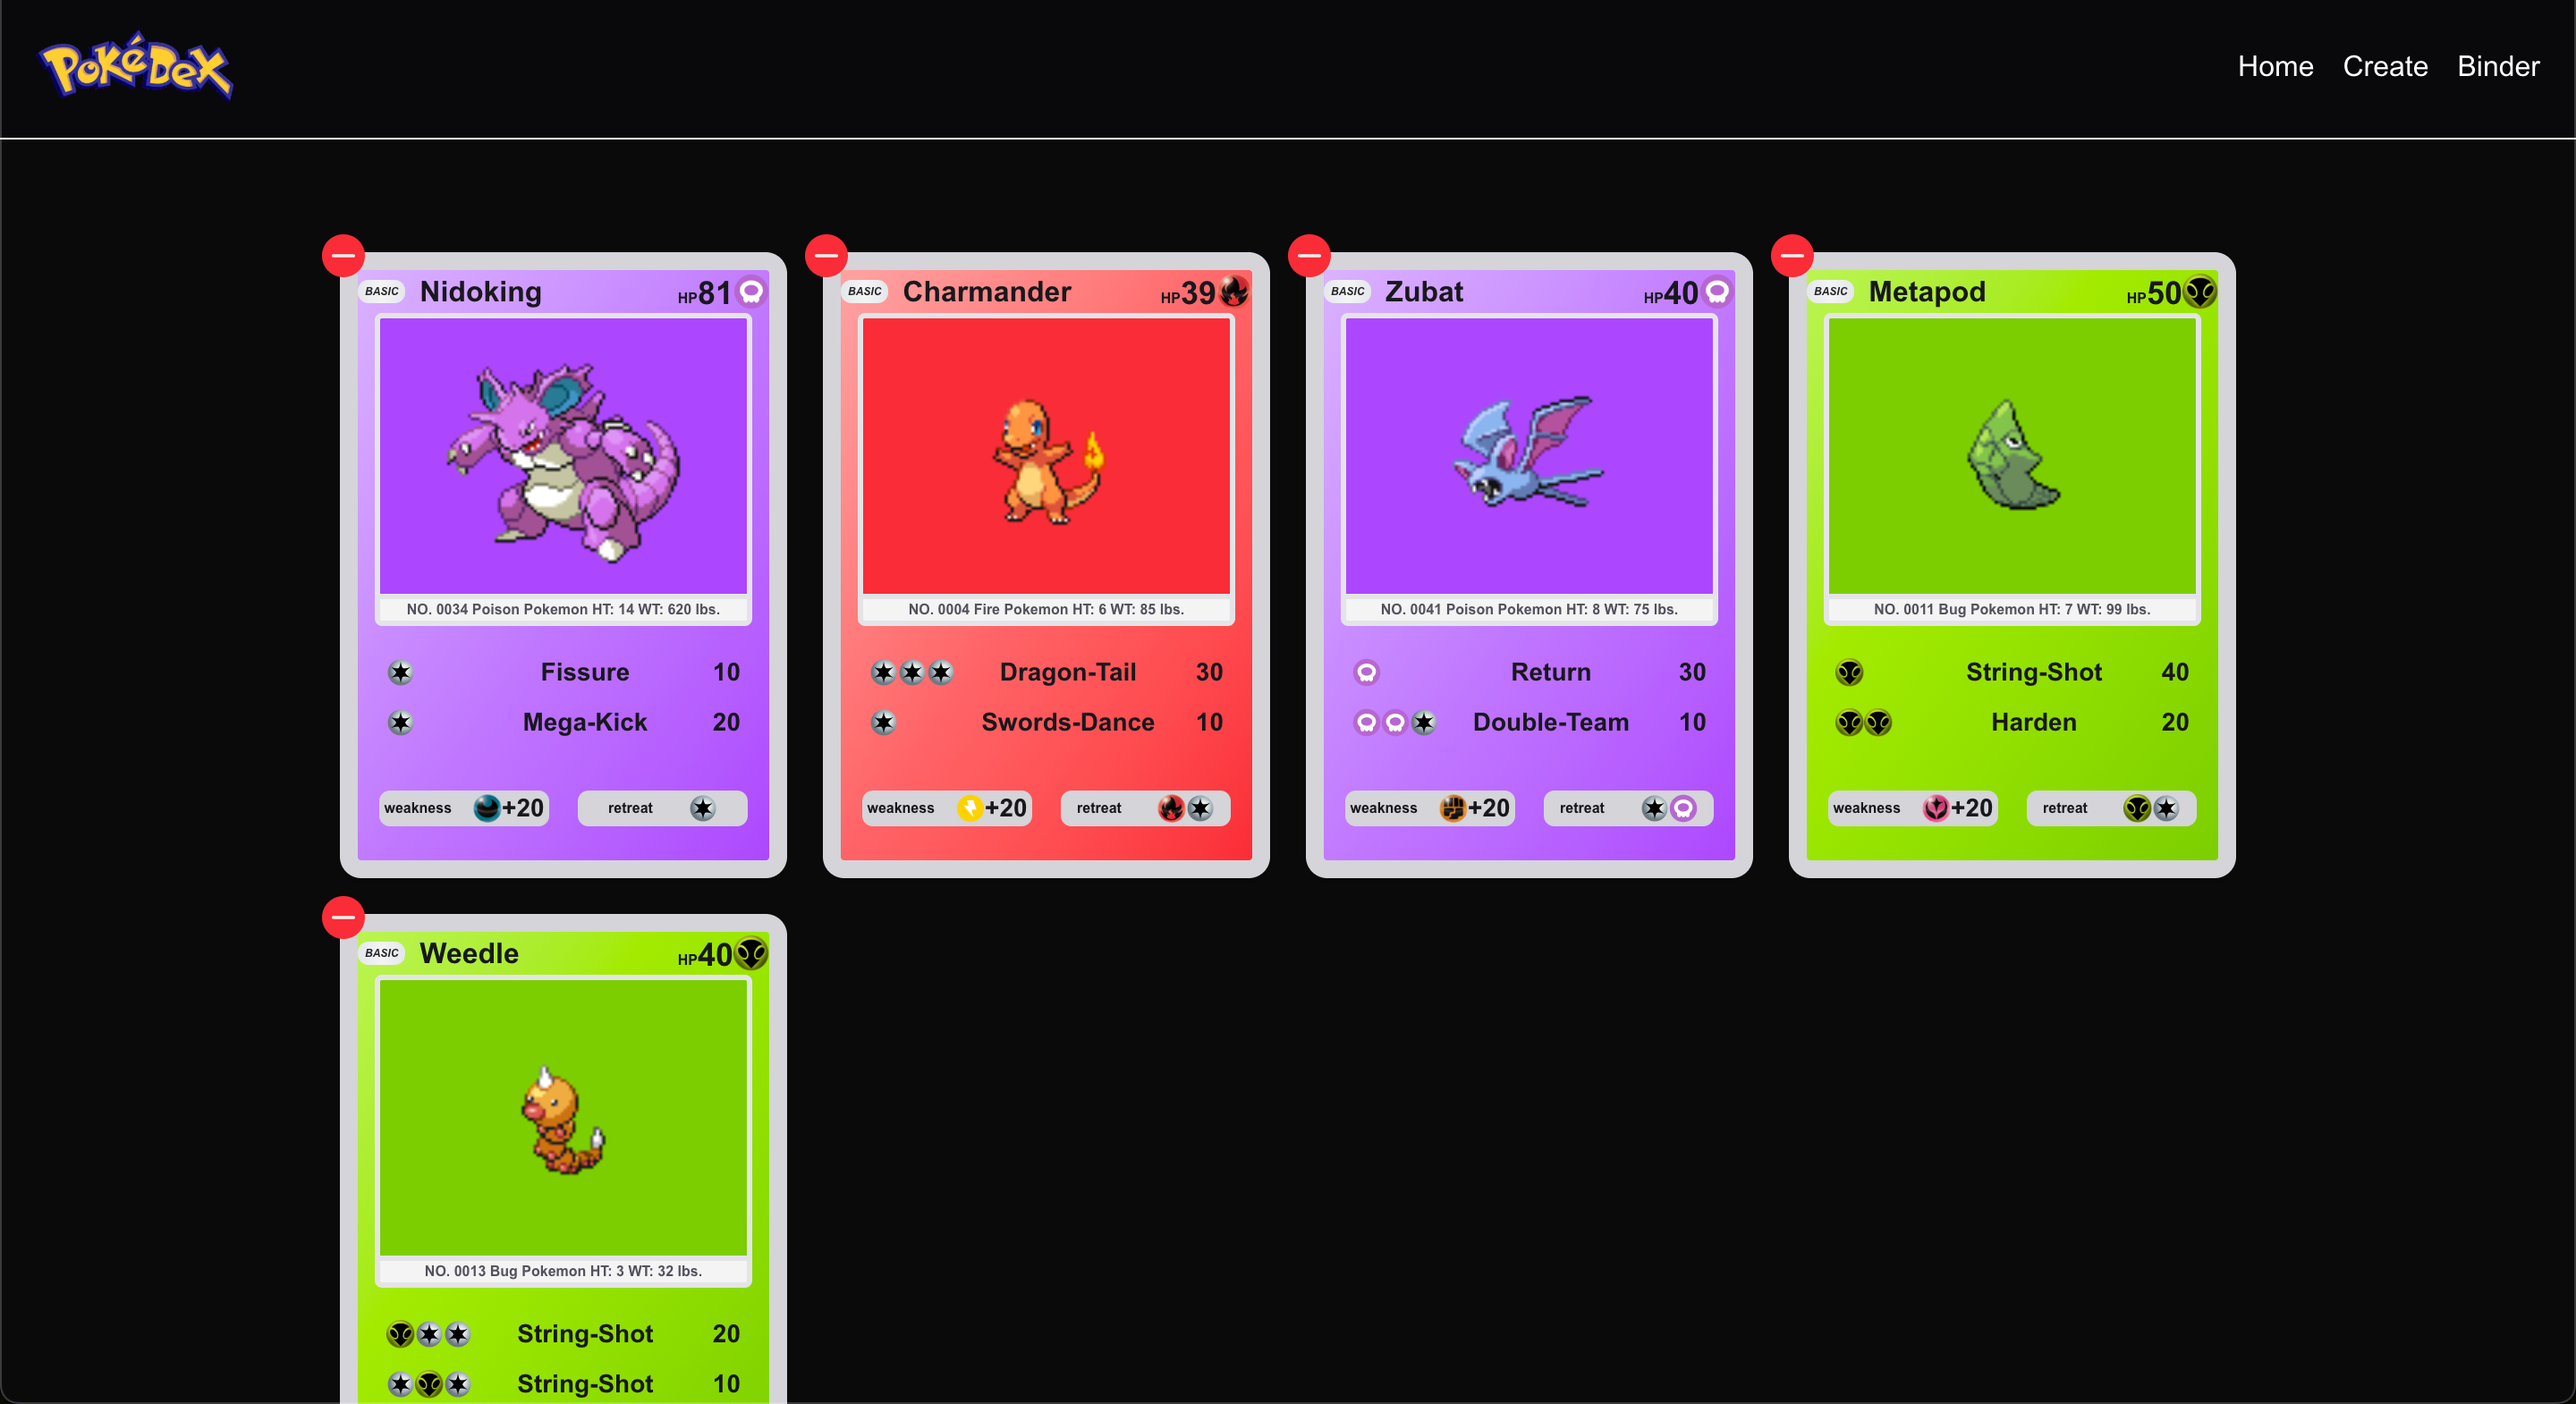
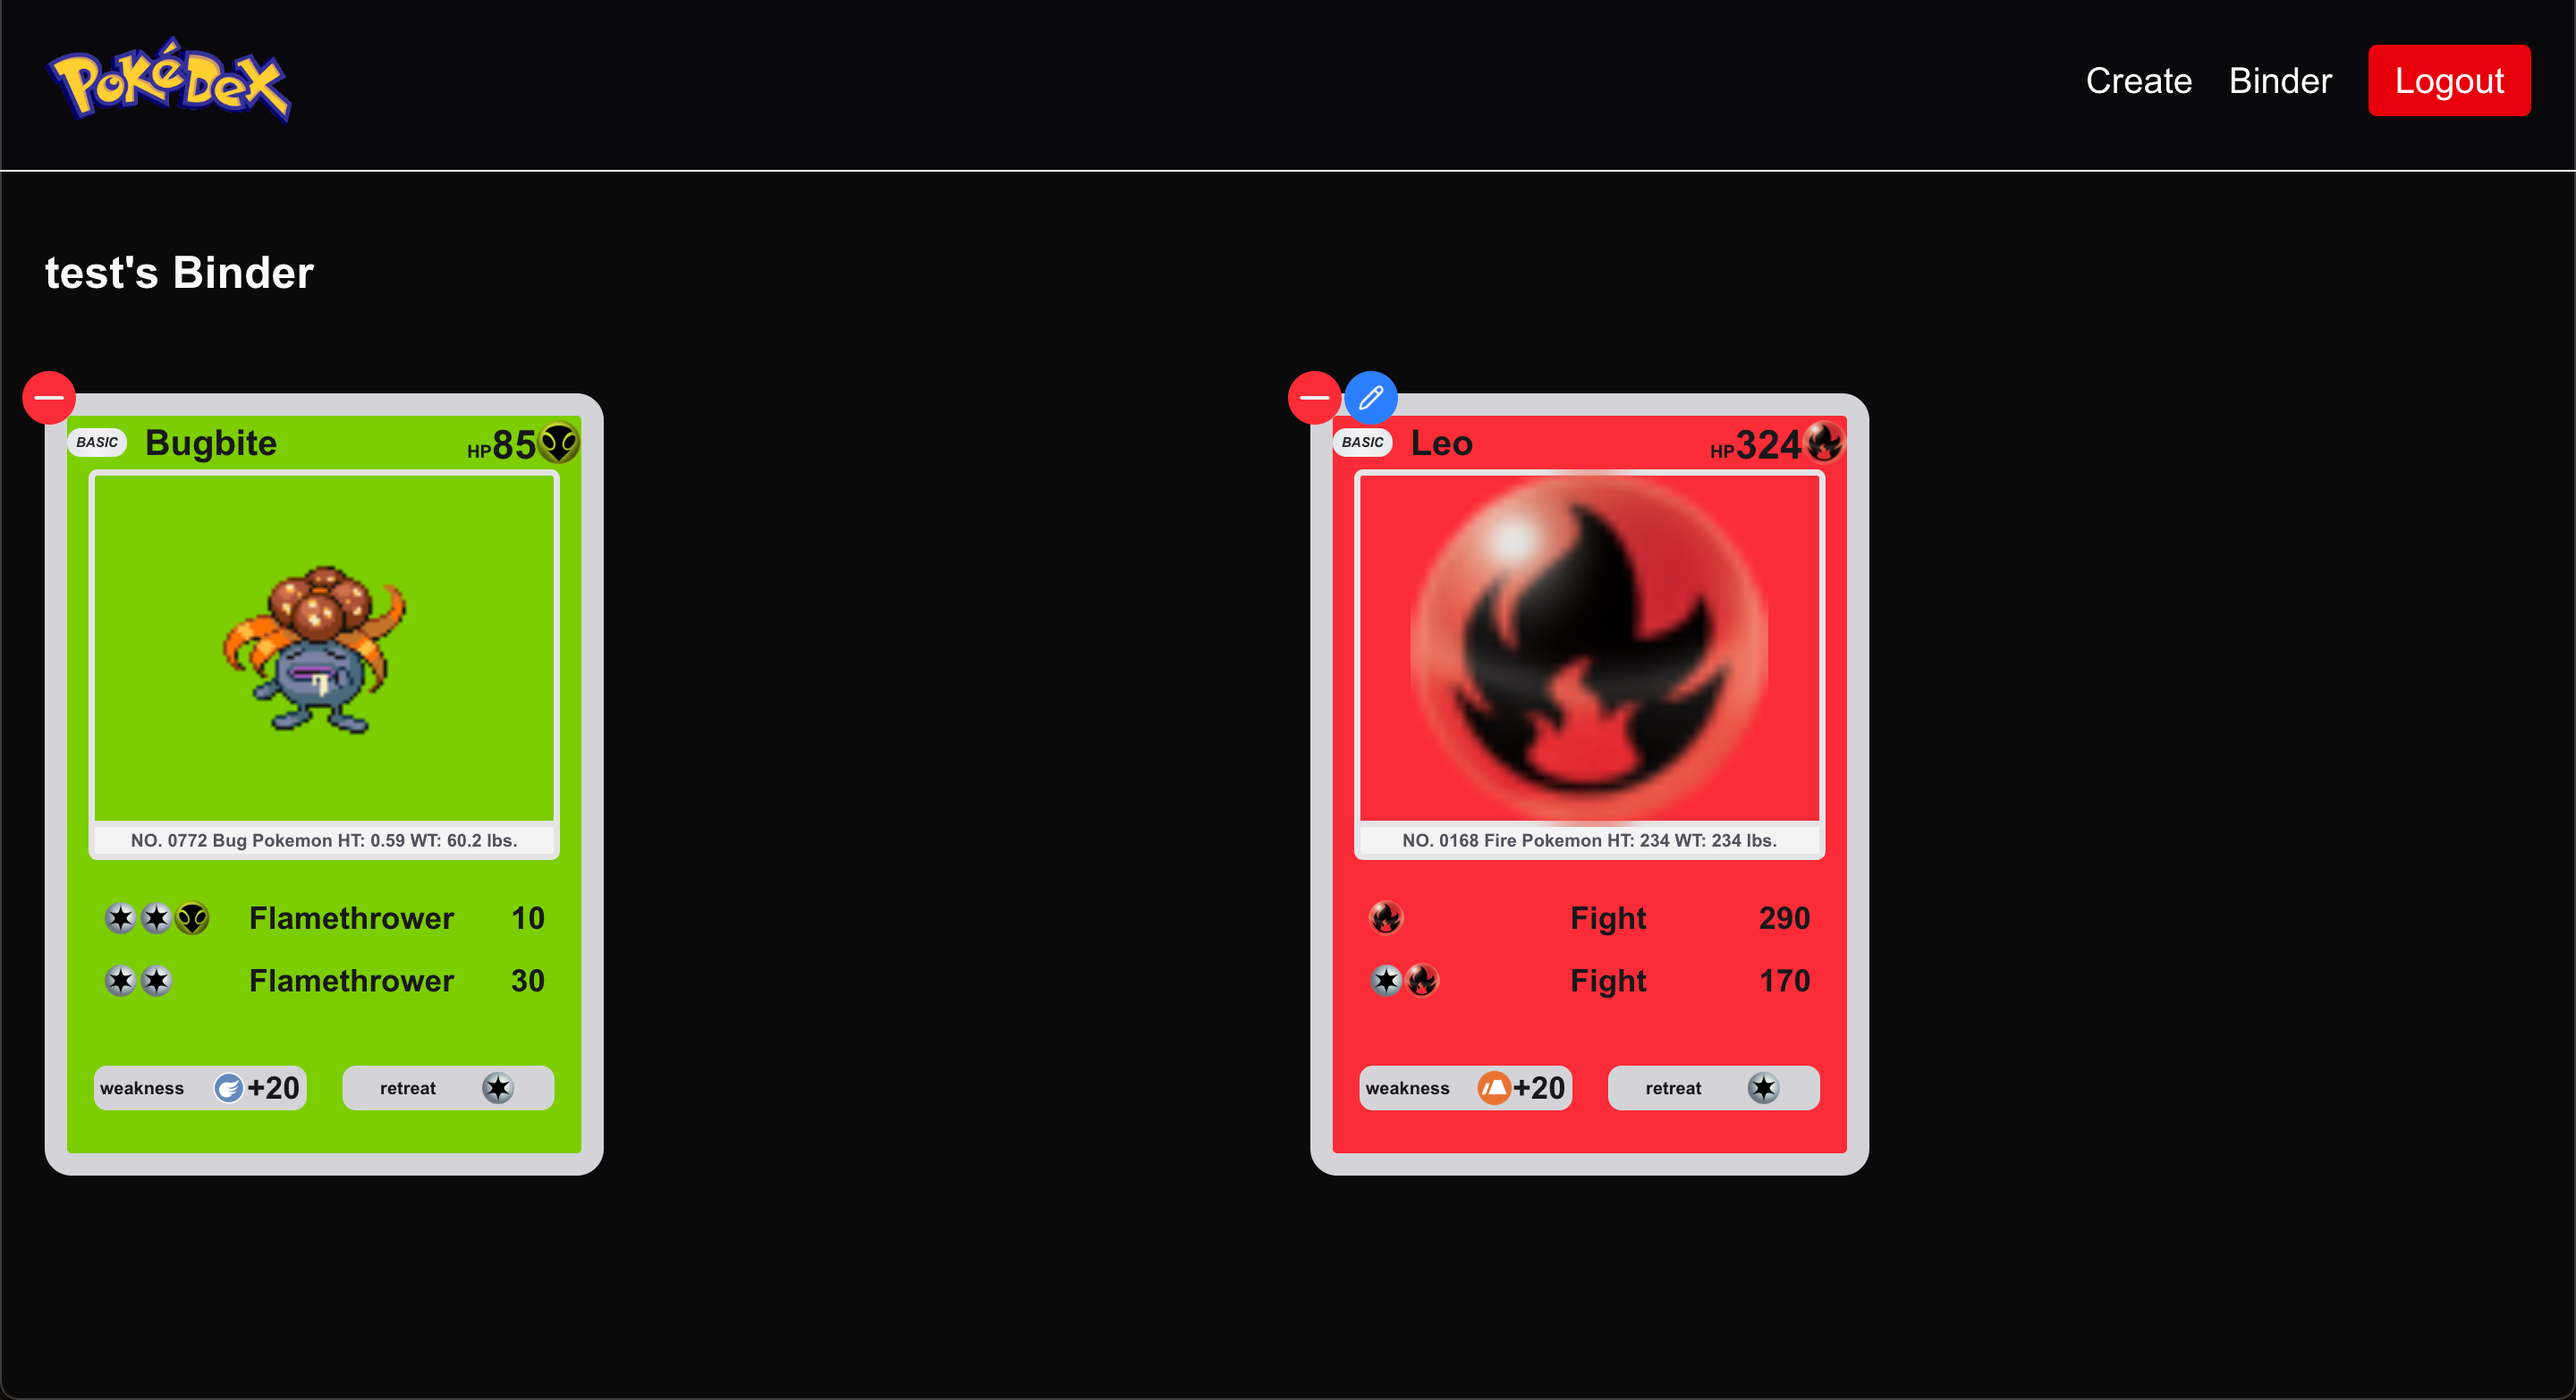
.

diff --git a/midterm1/README.md b/midterm1/README.md
@@ -30,12 +30,23 @@ pip3 install -r requirements.txt
 uvicorn main:app --reload
 ```
 
-## Images
-Home Page:
-![home](home.png)
+## Images (Assignment 4)
+Home Page (Not Logged In):
+![home](home-not-loggedin.png)
 
-Binder:
+Home Page (Logged In):
+![home](home-loggedin.png)
+
+Binder (only available if loggedin):
 ![binder](binder.png)
 
 Create:
 ![create](create.png)
+
+## Models
+
+Models can be found in [main.py](./server/main.py)
+
+## Authentication
+
+Authentication is also handled in [main.py](/server/main.py) and includes SHA256 hashing algorithm for password encryption. The user can only see the main page (with public pokemon) if they're not signed in, otherwise if signed in they are able to see their binder and any pokemon they've created.
